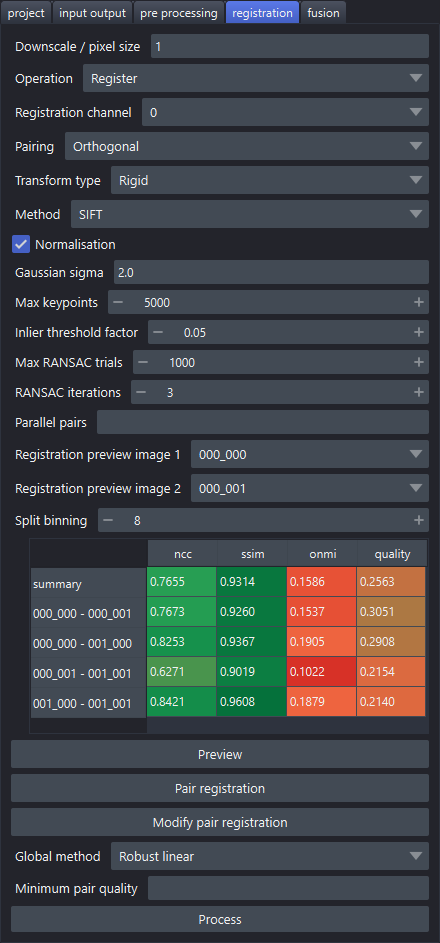
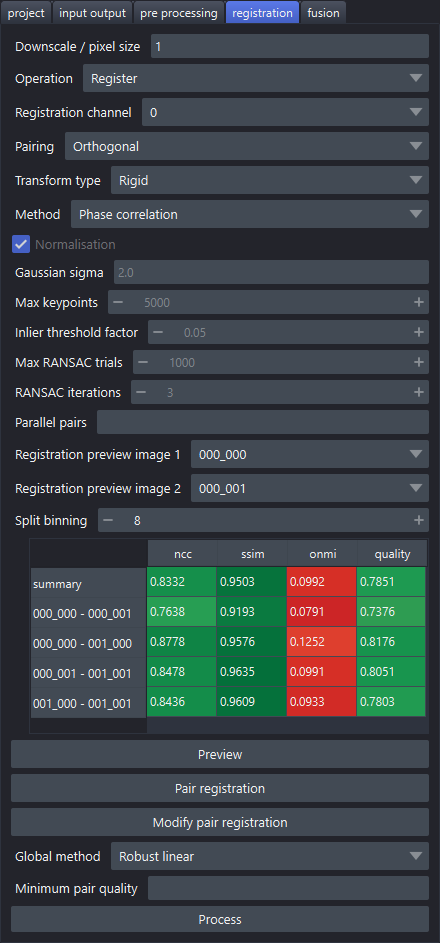
Retake the guide's registration shots with the sample's phase correlation
The 2D sample now registers with phase correlation; the registration tab,
registered and fused windows showed SIFT and the old widgets.

diff --git a/docs/napari_guide.md b/docs/napari_guide.md
@@ -239,8 +239,8 @@ The buttons:
 
 After **Process** on the registration tab, the sources sit at their registered positions. Each
 overlap, in the view, the overview and the metrics table, is coloured by its pair's
-registration quality, from red (poor) to green (good). Here the sample's settings (SIFT,
-rigid) give each pair a good quality.
+registration quality, from red (poor) to green (good). Here the sample's settings (phase
+correlation, rigid) give each pair a good quality.
 
 ![The registered sample](images/napari/registered.png)
 
